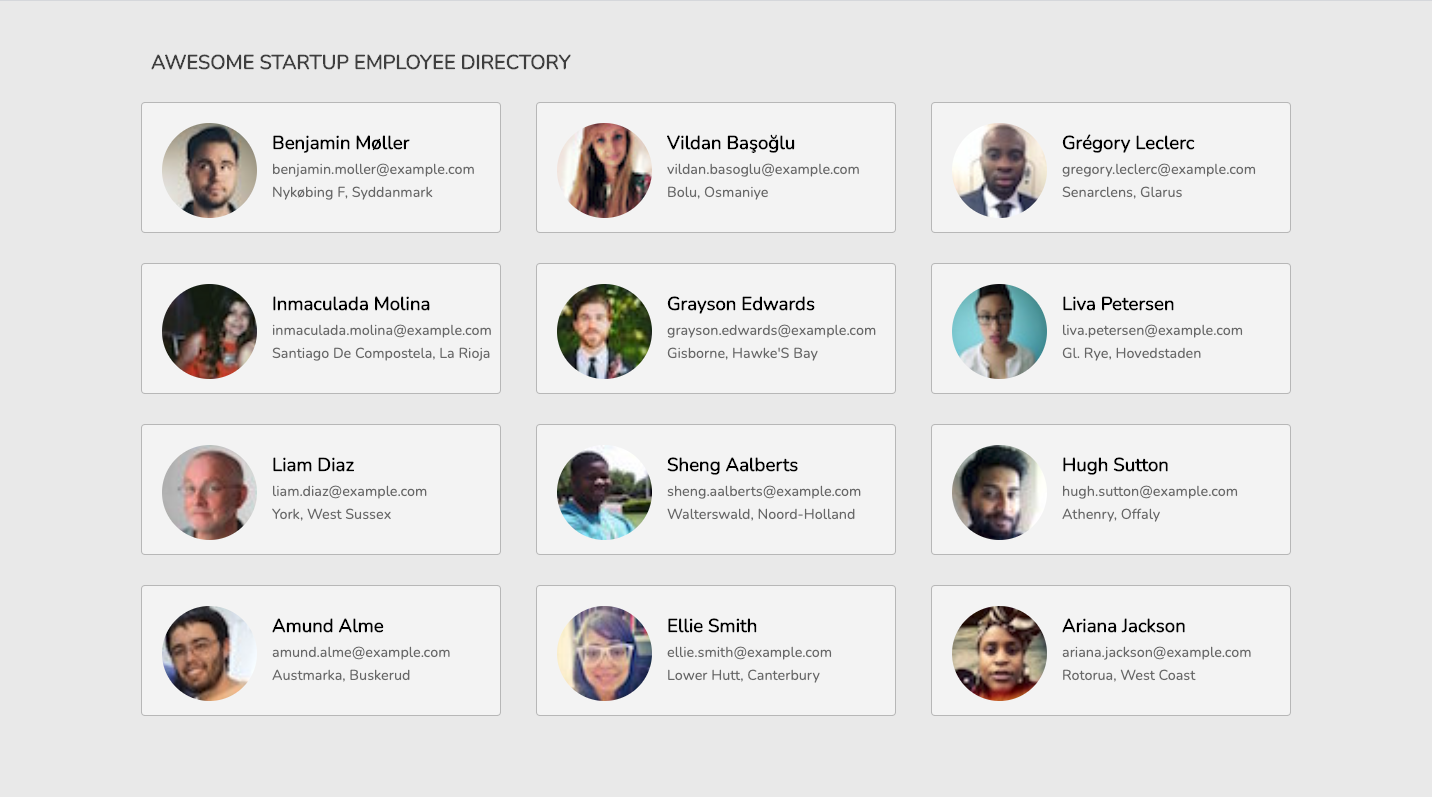
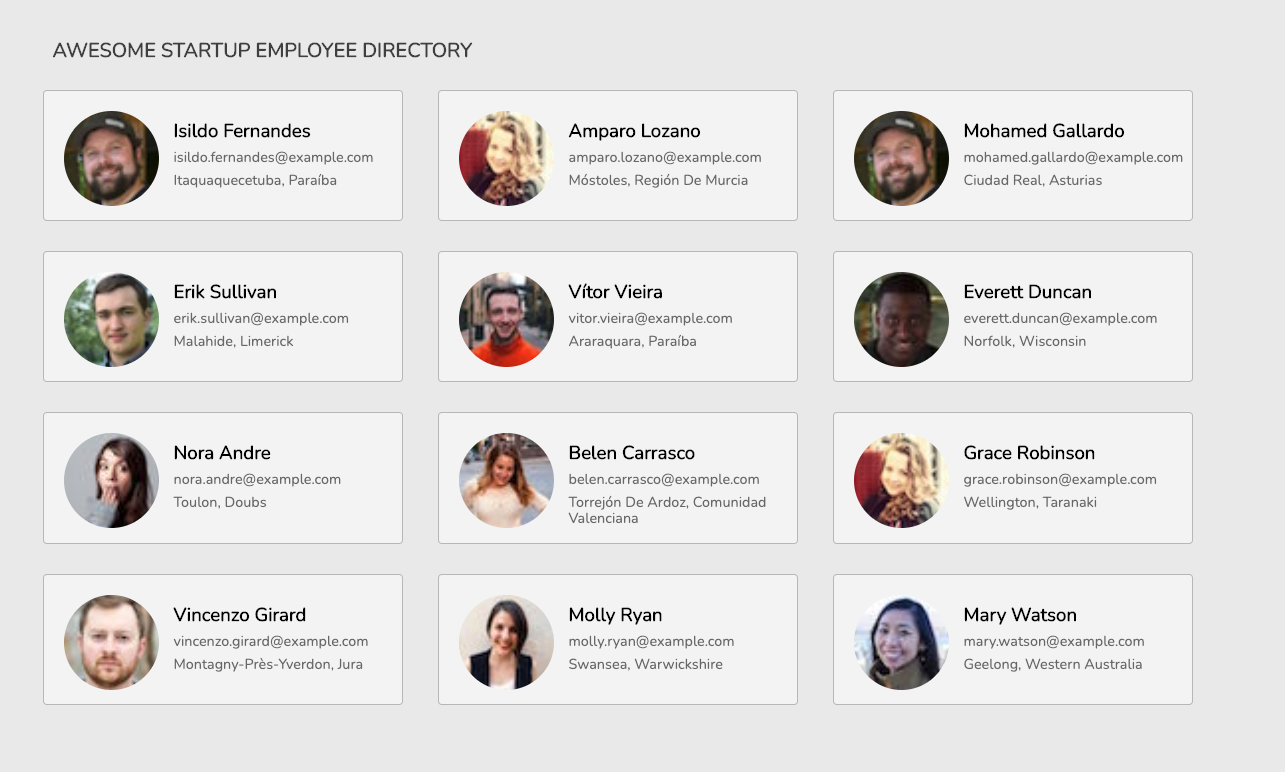
added real data, removed comments, added screenshots

diff --git a/app.js b/app.js
@@ -41,14 +41,11 @@ app.use((req, res, next) => {
 //error middleware 
 app.use((err, req, res, next) => {
     res.locals.error = err;
-    res.status(err.status);
+    const status = err.status || 500;
+    res.status(status);
     res.render('error');
   });
   
-
 app.listen(3000, () => {
     console.log('The application is running on localhost:3000!')
 });
-
-
-
